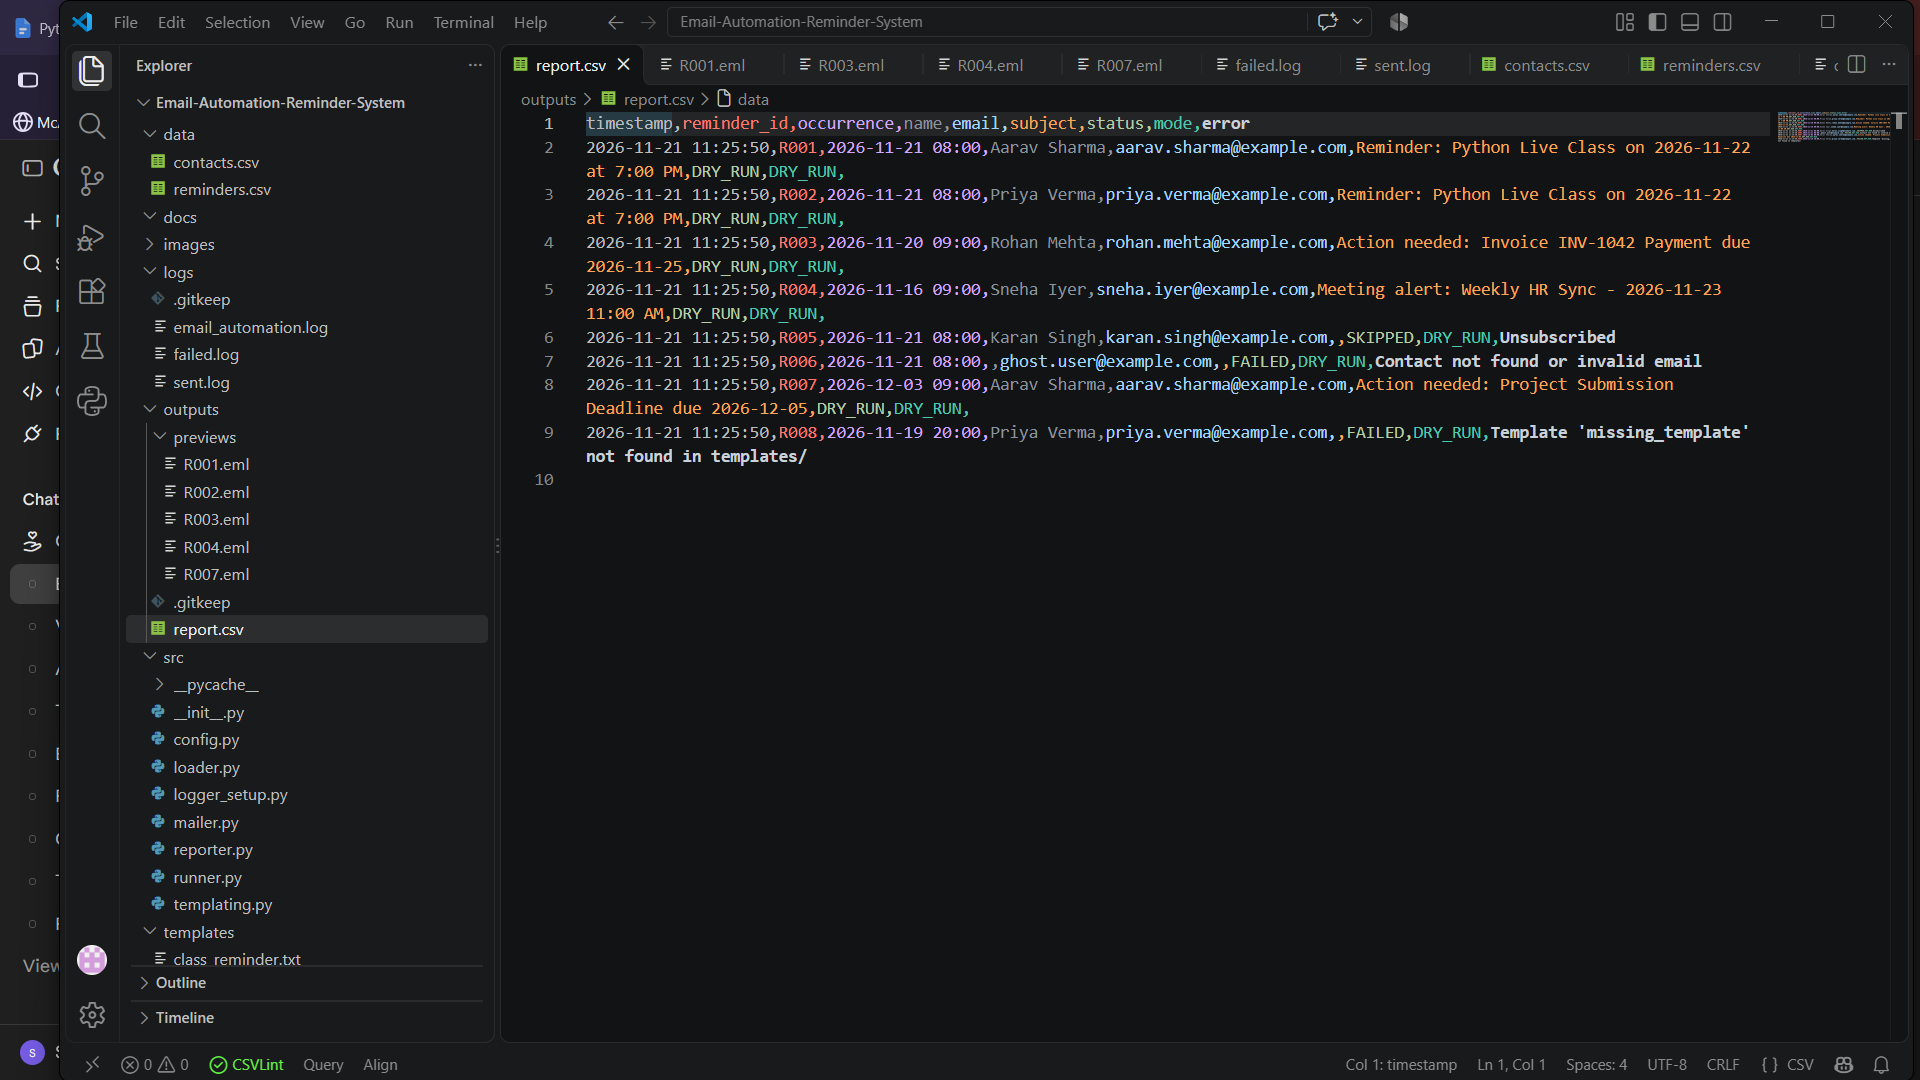
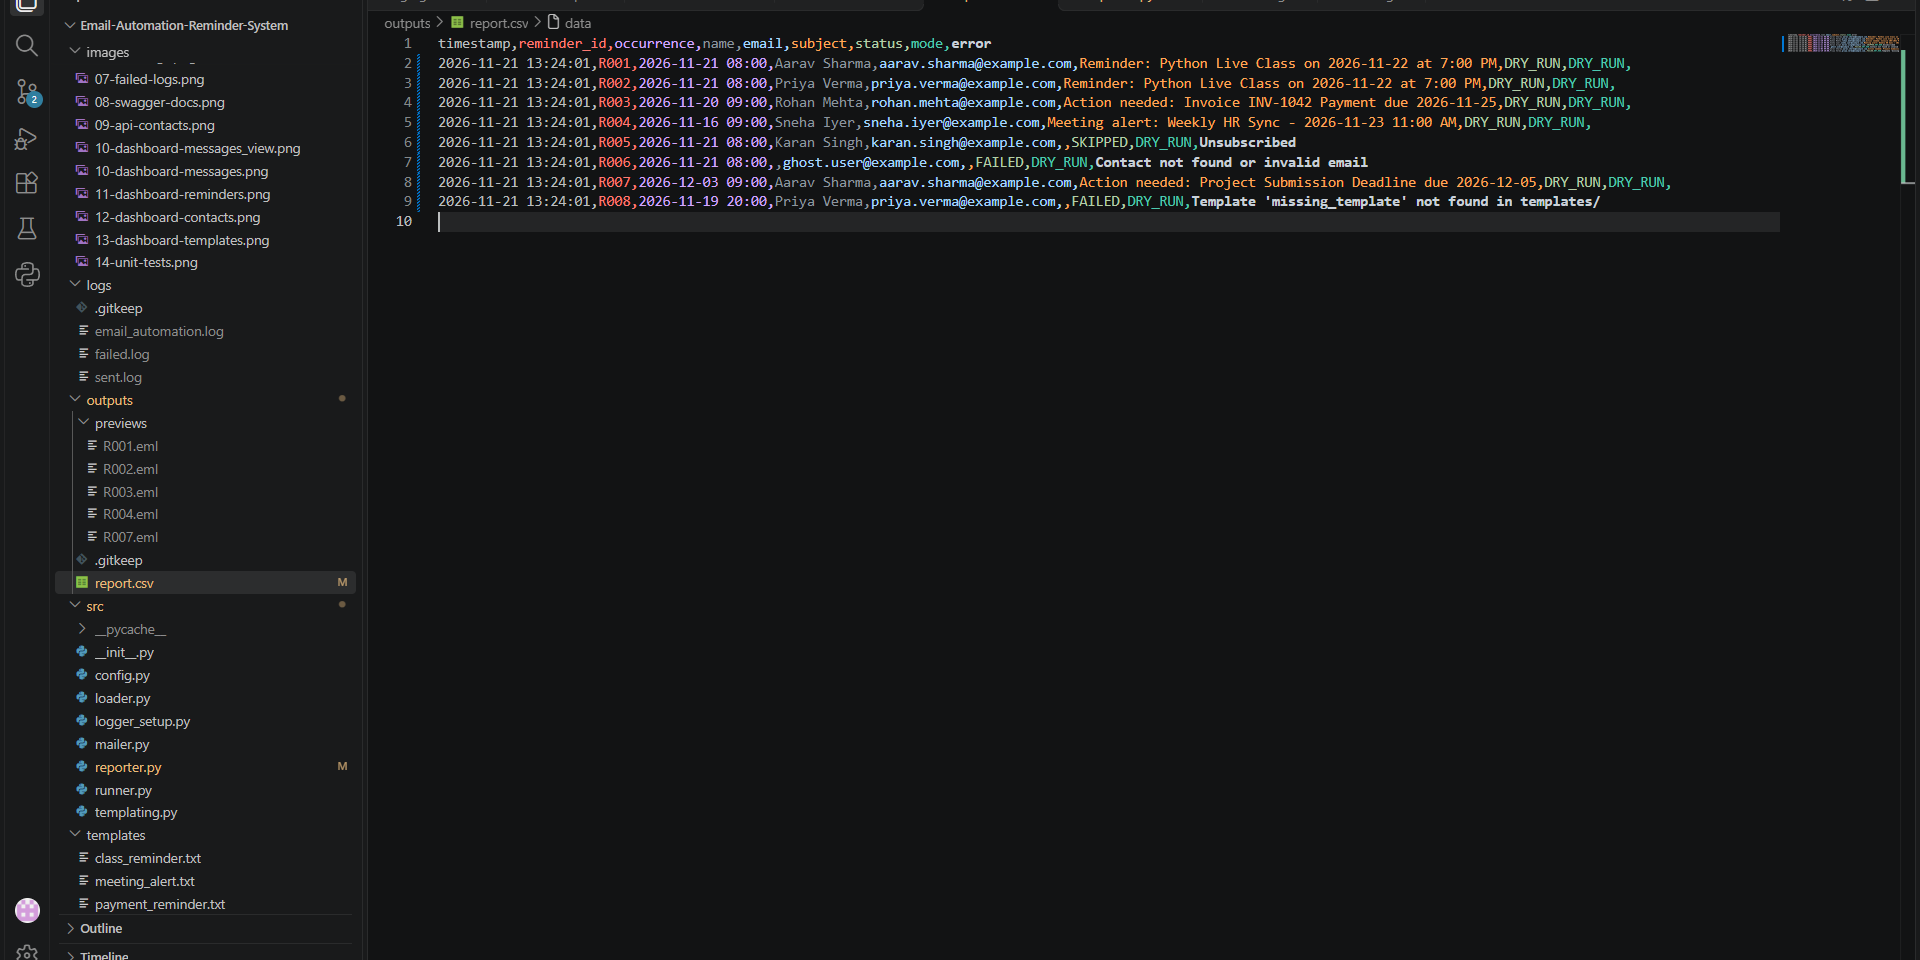
Fix duplicate report rows in scheduler mode

diff --git a/src/reporter.py b/src/reporter.py
@@ -19,9 +19,16 @@ def write_row(row: dict):
 
 
 def already_done(status: str) -> set:
-    """Keys (reminder_id|occurrence) already completed - prevents duplicate sends."""
+    """Keys already handled: success, skipped, or failed 3+ times."""
     if not REPORT_FILE.exists():
         return set()
+    done, fails = set(), {}
     with open(REPORT_FILE, newline="", encoding="utf-8") as f:
-        return {f"{r['reminder_id']}|{r['occurrence']}" for r in csv.DictReader(f)
-                if r["status"] == status}
+        for r in csv.DictReader(f):
+            key = f"{r['reminder_id']}|{r['occurrence']}"
+            if r["status"] in (status, "SKIPPED"):
+                done.add(key)
+            elif r["status"] == "FAILED":
+                fails[key] = fails.get(key, 0) + 1
+    done.update(k for k, n in fails.items() if n >= 3)
+    return done
